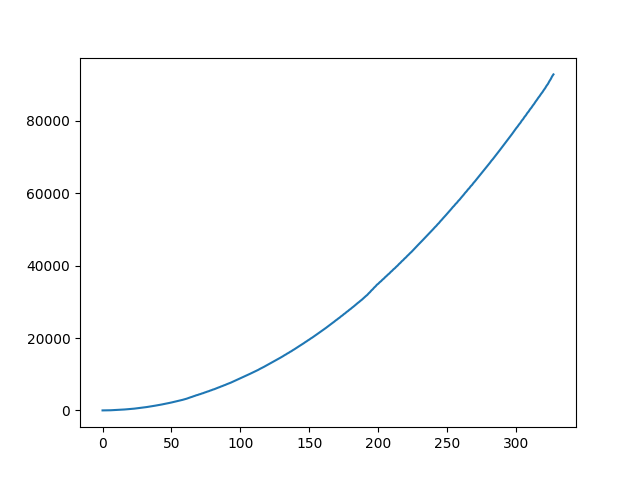
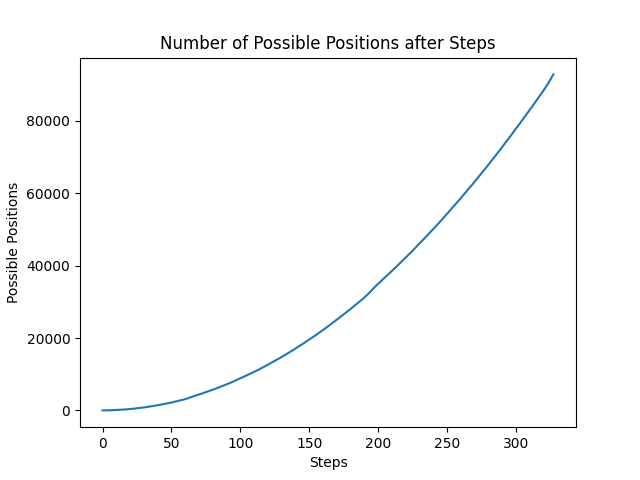
21 add comments + optimize numpy poly interp

Changed region(s): [[0.25, 0.0625, 0.7812, 0.125], [0.0, 0.375, 0.0312, 0.625], [0.4688, 0.9375, 0.5312, 1.0]]

diff --git a/21/main1.py b/21/main1.py
@@ -1,3 +1,7 @@
+'''
+Python code for the first part of question 21.
+'''
+
 import sys
 sys.path.append('../')
 from aoctools.aoc_functions import *
@@ -13,6 +17,7 @@ def main():
 
     ans2 = 0
 
+    # setup each grid
     grid = ftg(file)
     for i in rlen(grid):
         for j in rlen(grid[i]):
@@ -22,10 +27,16 @@ def main():
     
     nums = bfs(grid,start)
 
+    # # plotting for visualization purposes - this is what made me realize that the graph was likely quadratic
+    # plt.title("Number of Possible Positions after Steps")
+    # plt.xlabel("Steps")
+    # plt.ylabel("Possible Positions")
     # plt.plot(nums)
     # plt.savefig("nums.png")
 
-    # === Wolfram stuff ===
+    # # === Wolfram stuff ===
+    # # gives you the exact format you need to paste into this site:
+    # # https://www.wolframalpha.com/input?i=interpolating+polynomial+calculator
     # s = "{"
     # for i in rlen(nums):
     #     if i % 131 in [65]:
@@ -33,16 +44,17 @@ def main():
     # s = s[:len(s)-1] + "}"
     # print(s)
 
-    # f = lambda x: int((14812 * x**2)/17161 + (29615*x)/17161 + 2524/17161)
+    # # replace a, b, c with the coefficients that Wolfram gives you for your input
+    # a = 14812/17161
+    # b = 29615/17161
+    # c = 2524/17161
+    # f = lambda x: int(a*x**2 + b*x + c)
     # ans2 = f(26501365)
 
     # === numpy stuff ===
-    x = []
-    y = []
-    for i in rlen(nums):
-        if i % 131 == 65:
-            x.append(i)
-            y.append(nums[i])
+    # this code automatically does the calculations so you don't need to go to an external site
+    x = list(filter(lambda i: i % 131 == 65, rlen(nums)))
+    y = [nums[i] for i in x]
     p = poly.polyfit(x,y,2)
     ans2 = int(poly.polyval(26501365,p))-1
 
@@ -52,9 +64,7 @@ def main():
 
 def gn(grid: list, row: int, col: int):
     '''
-    Takes a grid coordinate and returns either:
-    - surrounding coordinates, or
-    - surrounding values.
+    Short for "grid neighbors". Takes a grid coordinate and returns surrounding coordinates. To make the function more flexible for the purposes of the problem, coordinates can take on values that are outside the dimensions of the grid.
     '''
     coords = []
     keys = ["U","D","L","R"]
@@ -66,17 +76,20 @@ def gn(grid: list, row: int, col: int):
     return coords
 
 def bfs(grid, start):
+    '''
+    Returns an array of the total number of plots that the elf can reach over a range of steps.
+    '''
     to_explore = deque()
     to_explore.append(start)
-    nums = [0]
+    nums = [0] # stores the number of possible plot locations after every step
     for i in range(1,131*2+66):
         to_explore_new = deque()
         while to_explore:
             current = to_explore.popleft()
             nbrs = gn(grid, *current)
             for nbr in nbrs:
-                simple = (nbr[0]%131, nbr[1]%131)
-                if grid[simple[0]][simple[1]] == "#":
+                simple = (nbr[0]%131, nbr[1]%131) # accounts for being outside the primary grid
+                if grid[simple[0]][simple[1]] == "#": # don't add to queue if rock
                     continue
                 to_explore_new.append(nbr)
         to_explore = deque(set(to_explore_new))
@@ -85,4 +98,5 @@ def bfs(grid, start):
 
 # ==================================================
 
-main()
+if __name__ == '__main__':
+    main()

diff --git a/21/main.py b/21/main.py
@@ -1,3 +1,7 @@
+'''
+Python code for the first part of question 21.
+'''
+
 import sys
 sys.path.append('../')
 from aoctools.aoc_functions import *

diff --git a/21/README.md b/21/README.md
@@ -4,8 +4,21 @@
 | Rank | 12524 | 4081 |
 | Time | 08:11:53 | 09:28:52 |
 
+[Question Source](https://adventofcode.com/2023/day/21)
+
+<details>
+    <summary>Part 2 Context</summary>
+    This part of the question changes the total number of steps to 26501365, and makes the map repeat infinitely in every direction.
+</details>
+
+## Thoughts
 Part 1 was straightforward. It took me a while to find my bug where I reset the queue of new coordinates when iterating over the current queue, but I got the correct answer shortly afterwards.
 
-Part 2 was more interesting. Upon looking at the number, I instantly knew I would not be bashing that one out (especially since part 1 had taken around half a second), so I decided to see if I could find patterns within the way the steps worked. Within the actual input (not the testing data), the row and column the starting coordinate is in is completely blank, as is the outer ring of the starting grid. The grid is also a square, which simplified things. Additionally, `26501365 % 131` (the length of the grid) is 65, which is exactly the number of steps it takes to reach the edge of the first grid. I ate breakfast after this since it was ready, then decided to plot the relationship  between the number of steps and the number of coordinates that could be reached (I did not expect to ever use MatPlotLib during AoC, but here we are), and noticed that it looked similar to a quadratic. I decided to use quadratic polynomial interpolation for values `0`, `131`, and `131*2`, courtesy of WolframAlpha. When that didn't work, I did the same thing for `65`, `65+131`, and `65+131*2` and got the correct answer.
+Part 2 was more interesting. Upon looking at the number, I instantly knew I would not be bashing that one out (especially since part 1 had taken around half a second), so I decided to see if I could find patterns within the way the steps worked. Within the actual input (not the testing data), the row and column the starting coordinate is in is completely blank, as is the outer ring of the starting grid. The grid is also a square, which simplified things. Additionally, `26501365 % 131` (the length of the grid) is 65, which is exactly the number of steps it takes to reach the edge of the first grid. I ate breakfast after this since it was ready, then decided to plot the relationship  between the number of steps and the number of coordinates that could be reached (I did not expect to ever use MatPlotLib during AoC, but here we are), and noticed that it looked similar to a quadratic. I decided to use quadratic polynomial interpolation for values `0`, `131`, and `131*2`, courtesy of [WolframAlpha](https://www.wolframalpha.com/input?i=interpolating+polynomial+calculator). When that didn't work, I did the same thing for `65`, `65+131`, and `65+131*2` and got the correct answer.
 
 Had that not worked, I would've tried off-by-one and off-by-two answers to account for rounding. Interestingly enough, when I was refactoring the code to use numpy's aproximation (to automatically do the calculations), my new answer was off by 1.
+
+## Significance
+My favorite Advent questions are the ones that force me to think outside the box and make me look for patterns within either the input or behavior. This question was a great mix of both. After coding up a bashy solution for part 2 and letting it run in the background, I started looking at the input to see if there were any patterns I could find within it.
+
+The testing graph they provided did not have what our actual inputs had: most of the plots did not have rocks, and every plot that was directly horizontal and vertical of the starting point (denoted by `S`) was rock-free. Additionally, the edge of the map was always clear of rocks. Thus, I reasoned that the total number of places that the elf could be in could be approximated by a quadratic, especially at the values that would correspond to some of the possible plot locations to spread to the edges.
